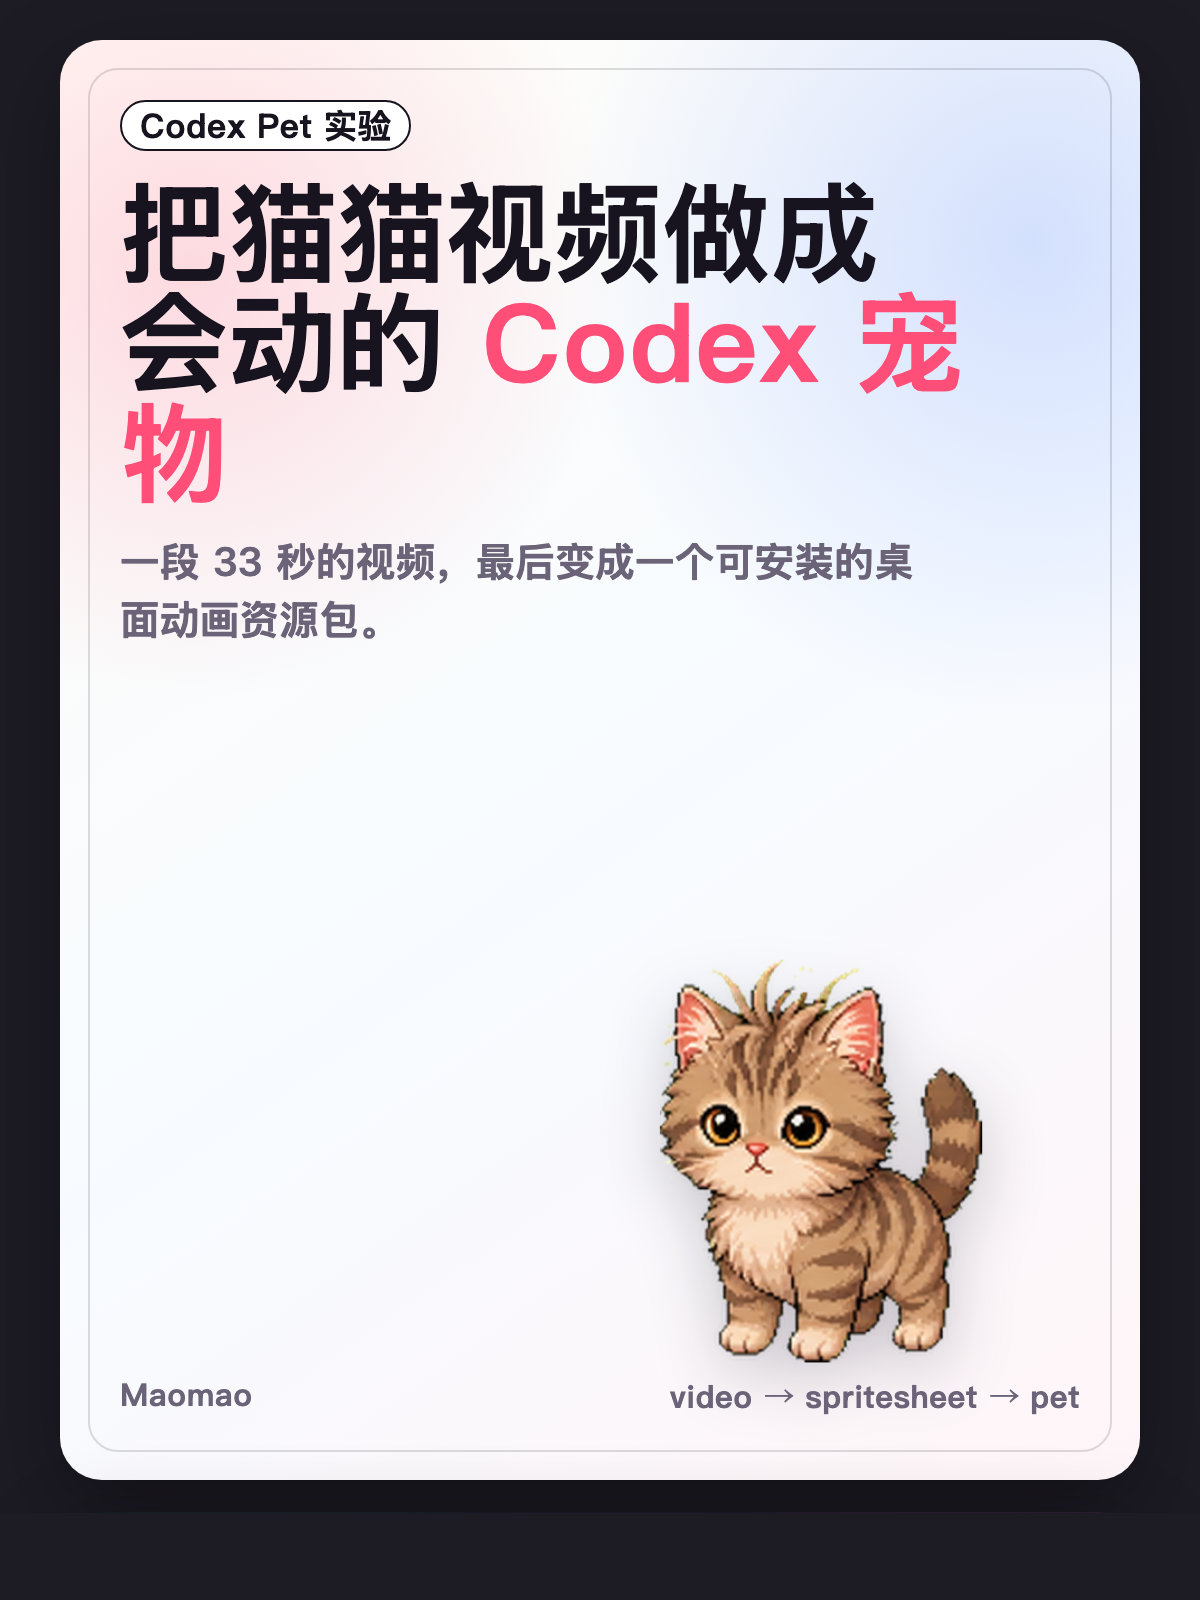
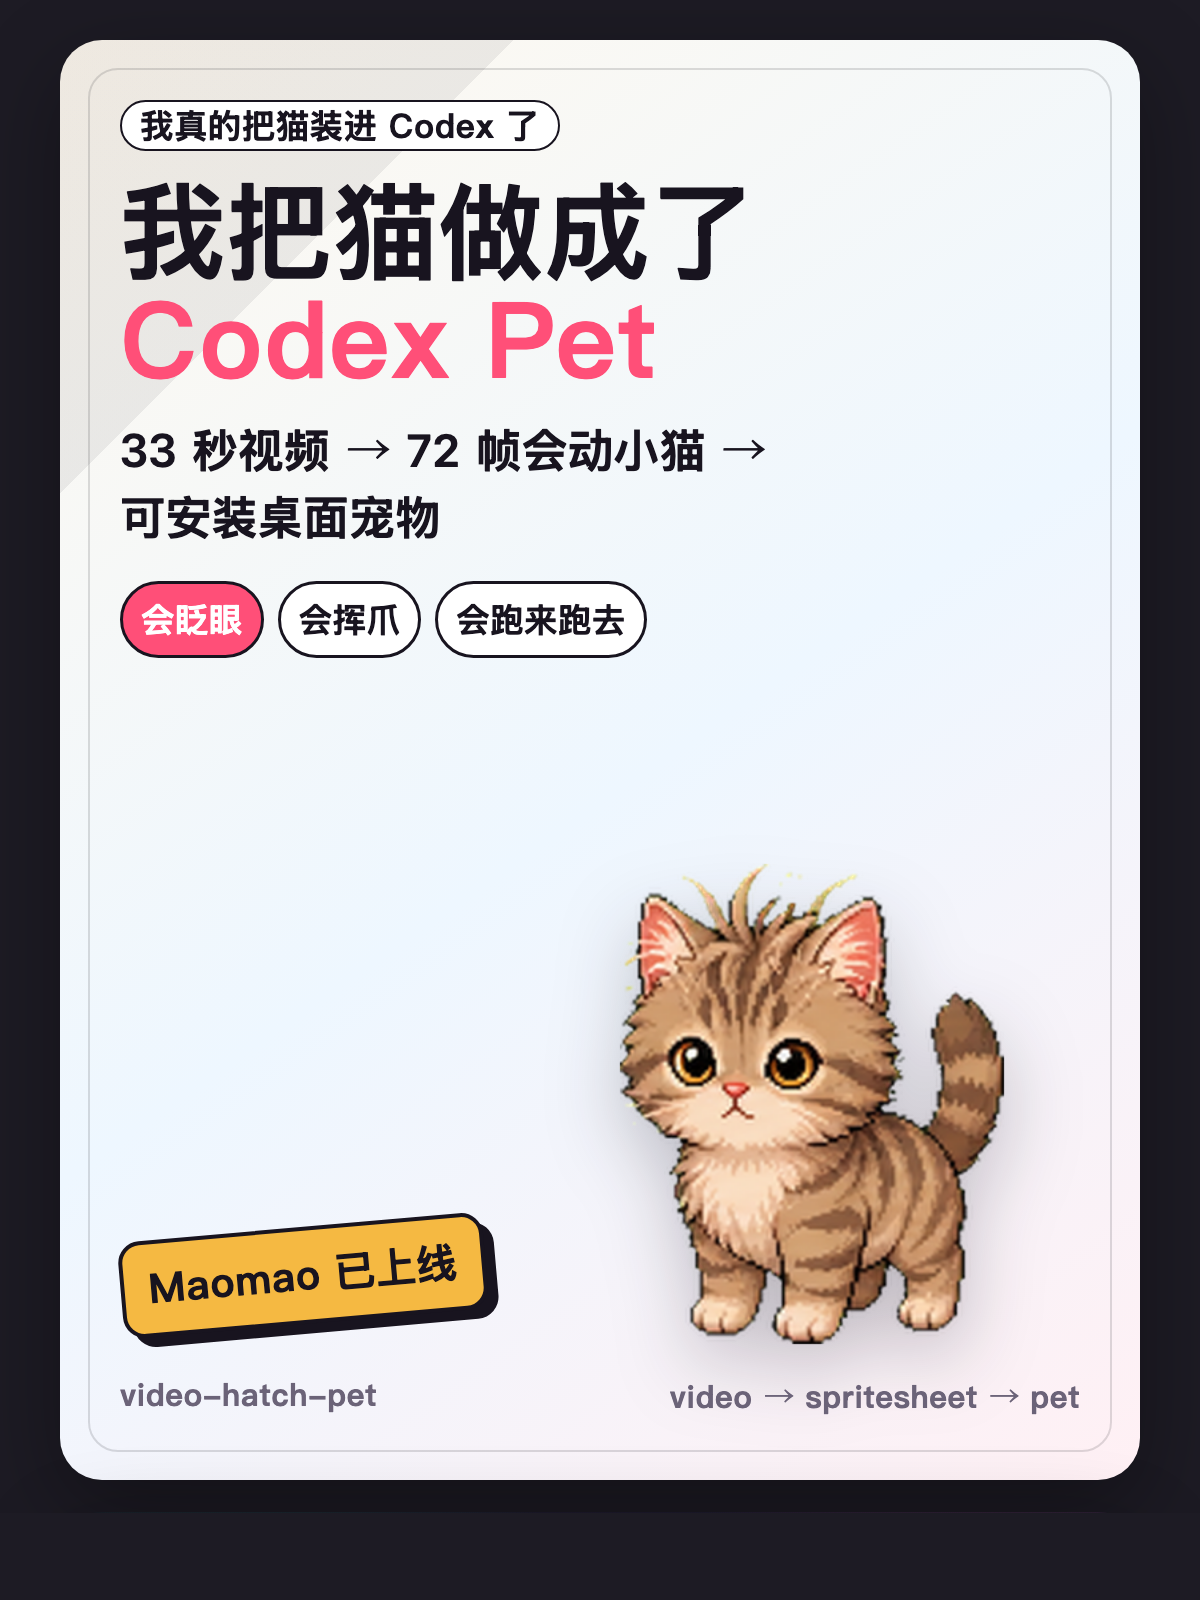
improve xhs card hooks

diff --git a/xhs-cards/index.html b/xhs-cards/index.html
@@ -230,6 +230,135 @@
         color: var(--ink);
       }
 
+      .cover {
+        background:
+          linear-gradient(135deg, rgba(24, 20, 31, 0.07) 0 18%, transparent 18% 100%),
+          linear-gradient(145deg, #fff9ef 0%, #eef7ff 52%, #fff0f4 100%);
+      }
+
+      .cover h1 {
+        max-width: 900px;
+        font-size: clamp(68px, 8.8vw, 112px);
+      }
+
+      .cover h1 .accent {
+        display: block;
+      }
+
+      .cover-lead {
+        max-width: 650px;
+        color: var(--ink);
+        font-size: clamp(32px, 3.8vw, 48px);
+        font-weight: 900;
+      }
+
+      .hero-pet.cover-cat {
+        width: min(56%, 560px);
+        right: clamp(22px, 4vw, 60px);
+        bottom: clamp(62px, 8vw, 104px);
+        filter: drop-shadow(0 28px 38px rgba(24, 20, 31, 0.25));
+      }
+
+      .cover-badges {
+        display: flex;
+        flex-wrap: wrap;
+        gap: 14px;
+        margin-top: 30px;
+        max-width: 610px;
+      }
+
+      .cover-badge {
+        padding: 12px 18px;
+        border: 3px solid var(--ink);
+        border-radius: 999px;
+        background: #fff;
+        font-size: clamp(24px, 2.8vw, 34px);
+        font-weight: 950;
+      }
+
+      .cover-badge.hot {
+        background: var(--rose);
+        color: #fff;
+      }
+
+      .cover-stamp {
+        position: absolute;
+        left: clamp(40px, 5vw, 78px);
+        bottom: clamp(126px, 13vw, 180px);
+        transform: rotate(-5deg);
+        padding: 16px 24px;
+        border: 4px solid var(--ink);
+        border-radius: 22px;
+        background: var(--gold);
+        color: var(--ink);
+        font-size: clamp(28px, 3.4vw, 44px);
+        font-weight: 950;
+        box-shadow: 10px 10px 0 var(--ink);
+      }
+
+      .tuft-card {
+        background:
+          linear-gradient(90deg, rgba(255, 79, 120, 0.12) 0 16px, transparent 16px 48px),
+          linear-gradient(145deg, #17131f 0%, #20233c 58%, #312139 100%);
+      }
+
+      .tuft-card h2 {
+        max-width: 760px;
+        font-size: clamp(58px, 8vw, 106px);
+      }
+
+      .tuft-card .hero-pet {
+        width: min(52%, 520px);
+        right: clamp(30px, 5vw, 72px);
+        bottom: clamp(120px, 13vw, 190px);
+      }
+
+      .tuft-note {
+        max-width: 500px;
+        color: rgba(255, 255, 255, 0.82);
+        font-size: clamp(28px, 3.5vw, 42px);
+        font-weight: 850;
+      }
+
+      .callout {
+        position: absolute;
+        padding: 12px 18px;
+        border: 2px solid rgba(255, 255, 255, 0.7);
+        border-radius: 999px;
+        background: rgba(255, 255, 255, 0.92);
+        color: var(--ink);
+        font-size: clamp(22px, 2.6vw, 32px);
+        font-weight: 950;
+        box-shadow: 0 16px 30px rgba(0, 0, 0, 0.22);
+      }
+
+      .callout.one {
+        right: 52px;
+        top: 390px;
+      }
+
+      .callout.two {
+        right: 310px;
+        bottom: 146px;
+      }
+
+      .identity-tags {
+        display: grid;
+        gap: 14px;
+        max-width: 520px;
+        margin-top: 34px;
+      }
+
+      .identity-tag {
+        width: fit-content;
+        padding: 12px 18px;
+        border-radius: 18px;
+        background: rgba(255, 255, 255, 0.12);
+        color: #fff;
+        font-size: clamp(24px, 3vw, 36px);
+        font-weight: 900;
+      }
+
       @media print {
         body {
           background: #fff;
@@ -251,20 +380,33 @@
   </head>
   <body>
     <main class="deck">
-      <section class="card">
-        <div class="kicker">Codex Pet 实验</div>
-        <h1>把猫猫视频做成会动的 <span class="accent">Codex 宠物</span></h1>
-        <p>一段 33 秒的视频，最后变成一个可安装的桌面动画资源包。</p>
-        <img class="hero-pet" src="assets/maomao-frame.png" alt="Maomao transparent pet sprite" />
-        <div class="footer"><span>Maomao</span><span>video → spritesheet → pet</span></div>
+      <section id="cover-card" class="card cover">
+        <div class="kicker">我真的把猫装进 Codex 了</div>
+        <h1>我把猫做成了<span class="accent">Codex Pet</span></h1>
+        <p class="cover-lead">33 秒视频 → 72 帧会动小猫 → 可安装桌面宠物</p>
+        <div class="cover-badges">
+          <span class="cover-badge hot">会眨眼</span>
+          <span class="cover-badge">会挥爪</span>
+          <span class="cover-badge">会跑来跑去</span>
+        </div>
+        <div class="cover-stamp">Maomao 已上线</div>
+        <img class="hero-pet cover-cat" src="assets/maomao-frame.png" alt="Maomao transparent pet sprite" />
+        <div class="footer"><span>video-hatch-pet</span><span>video → spritesheet → pet</span></div>
       </section>
 
-      <section class="card dark">
-        <div class="kicker">最重要的特征</div>
-        <h2>不是“生成一只猫”，而是保住它的<span class="accent">灵魂</span></h2>
-        <p>这只猫猫头顶和耳边有很多乱乱的呆毛，所以我把“很多呆毛”写成 identity invariant，要求每个动作都保留。</p>
-        <div class="quote">AI 可以美化，但不能把猫猫最可爱的地方磨平。</div>
-        <div class="footer"><span>身份特征</span><span>messy head tufts</span></div>
+      <section id="tuft-card" class="card dark tuft-card">
+        <div class="kicker">这只猫的灵魂：呆毛</div>
+        <h2>不是标准小猫，是<span class="accent">乱毛 Maomao</span></h2>
+        <p class="tuft-note">头顶和耳边这些炸开的毛，必须每一帧都保住。</p>
+        <div class="identity-tags">
+          <span class="identity-tag">写进 prompt 约束</span>
+          <span class="identity-tag">9 个动作都要保留</span>
+          <span class="identity-tag">不能被 AI 磨平</span>
+        </div>
+        <span class="callout one">头顶呆毛</span>
+        <span class="callout two">耳边炸毛</span>
+        <img class="hero-pet" src="assets/maomao-frame.png" alt="Maomao with visible tufts" />
+        <div class="footer"><span>identity invariant</span><span>messy head tufts</span></div>
       </section>
 
       <section class="card">
@@ -329,5 +471,13 @@
         <div class="footer"><span>video-hatch-pet</span><span>from video to pet</span></div>
       </section>
     </main>
+    <script>
+      window.addEventListener("load", () => {
+        const target = window.location.hash && document.querySelector(window.location.hash);
+        if (target) {
+          window.requestAnimationFrame(() => target.scrollIntoView({ block: "start" }));
+        }
+      });
+    </script>
   </body>
 </html>